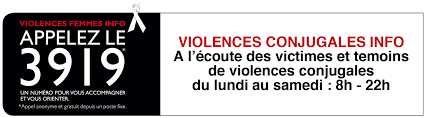
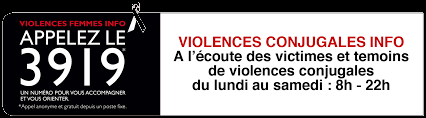
modification css header, change image page urgence and main css urgence

Changed region(s): [[0.0, 0.0, 1.0, 1.0]]

diff --git a/médecin.html b/médecin.html
@@ -1,7 +1,7 @@
 <!DOCTYPE html>
 <html lang="fr">
 
-<h3>
+<head>
     <meta charset="UTF-8">
     <meta name="viewport" content="width=device-width, initial-scale=1.0">
     <meta http-equiv="X-UA-Compatible" content="ie=edge">
@@ -13,7 +13,7 @@
 <body>
 <!--_______________________________________________HEADER________________________________________-->
 <header>
-    <div class="container">
+    <div>
         <div class="logo"><!--logo-->
             <figure>
             <img src="Images/logo1.png" alt="logo" width="200" height="200">
@@ -43,7 +43,7 @@
         <div>
             <figure>
                 <h2 class="marg">Médecin Généraliste</h2>
-                <img src="Images/medecin4.jpeg" class="medecin" alt="photo medecin" width="250" height="250">
+                    <img src="Images/medecin4.jpeg" class="medecin" alt="photo medecin" width="250" height="250">
                 <h3 class="marg">Docteur Mouse</h3>
             </figure>
             <section class="p-medecin">
@@ -52,23 +52,20 @@
                     Ancien externe au CHRU de Lille (59)<br> 
                     Ancien interne au CHRU d’Amiens (80)<br> 
                     Diplômé de Médecine Manuelle Ostéopathie de la faculté de Bobigny (Paris Nord) <br> 
-                    Numéro d’inscription au tableau de l’Ordre: 1702517896 <br> <br> 
+                    Numéro d’inscription au tableau de l’Ordre: 1702517896
             </p>
             </section>
             <section class="p-medecin"> 
                 <p>
                     Le médecin généraliste est chargé de dispenser des soins globaux et continus <br>
                     à tous ceux qui le souhaitent indépendamment et de leur âge, de leur sexe et de leur maladie.<br>
-                    <br>
-                    <br>
+                    <br>                    <br>
                     Il soigne les personnes dans leur contexte familial, communautaire, culturel et toujours dans le respect de leur autonomie.<br>
                     Il accepte d’avoir également une responsabilité professionnelle de santé publique envers leur communauté.<br>
-                    <br>
-                    <br>
+                    <br>                    <br>
                     Dans la négociation des modalités de prise en charge avec leurs patients, il intègre les dimensions physiques, psychologiques,<br>
                     sociales, culturelles et existentielles, mettant à profit la connaissance et la confiance engendrées par des contacts répétés.<br>
-                    <br>
-                    <br>
+                    <br>                    <br>
                     Son activité professionnelle comprend la promotion de la santé, la prévention des maladies, <br> 
                     la prestation de soins à visée curative et palliative et il assure la coordination avec ses confrères spécialistes.
                 </p> 

diff --git a/style.css b/style.css
@@ -8,6 +8,7 @@
 body
 {
     font-family: 'Merriweather', Arial, Impact, Serif;
+    background-color: black;
 }
 
 li{
@@ -18,8 +19,8 @@ table
  {
      background-color: rgba(228, 228, 228, 0.4);
      text-align: center;
-     width: 900px;
-     height: 400px;
+     width: auto;
+     height: auto;
      border: 3px solid black;
      text-shadow: 1px 1px blac;
      font-weight: bold;
@@ -30,6 +31,7 @@ th,td
     border: 3px solid black;
     font-size: 1.5rem;
     font-weight: bold;
+    ;
 }
 
 /*============================HEADER============================*/
@@ -37,21 +39,21 @@ th,td
 header
 {
     background: url('Images/banner4.jpg') no-repeat;
-    background-size: 100% 350px;
+    background-size: cover;
     border-bottom: 7px solid black; 
-    height: 300px;
+    height:350px;
 }
 
 header h1
 {
-    padding-top:  7rem;
+    padding-top:  9rem;
     text-shadow: 1px 1px black;
 }
 
 header nav
 {
     float: right;
-    margin-top: 1.1rem; 
+    margin-top: 1.5rem; 
     text-align: center; 
     background-color: black;
     border: 4px outset rgb(192, 192, 192);
@@ -62,8 +64,8 @@ header nav ul li
 {
     background-color: black;
     font-weight: bold;
-    padding: 0 5rem 0 5rem;
-    display: inline-block;    
+    padding: 1rem 5rem .9rem 5rem;
+    display: inline-block;  
 }
 
 header a
@@ -75,7 +77,7 @@ header a
 .logo
 {
     float: left;
-    padding: 3rem 0 0 4rem;
+    padding: 4rem 0 0 4rem;
 }
 
 .rouge
@@ -92,8 +94,9 @@ header a
 
 main
 {
-    background: url('Images/fond1.jpg') no-repeat;
+    background: url('Images/fond2.1.jpg') no-repeat;
     width: 100%; height: 100%;
+    background-size: cover;
     display: flex;
     flex-direction: column;
 }
@@ -129,22 +132,22 @@ main
 {
     display: flex;
     justify-content: center;
-    margin: 50px auto 20px auto;
+    margin: 50px 0 20px 0;
     font-size: 2.5rem;
 }
 
 .medecin
 {
     display: flex;
-    justify-content: center;
-    margin: 0 auto;
+    justify-items: center;
+    margin:0 auto;
 }
 
 .botton-contact
 {
     display: flex;
     justify-content: center;
-    margin: 50px auto 50px auto;
+    margin: 50px auto;
     font-size: 2.0rem;
     background-color: black;
     color: rgb(245, 222, 179);
@@ -275,11 +278,11 @@ form input
     color: rgb(255,10,10); 
     font-size: 4rem;
     text-align: center;
-    border: 2px solid white;
-    width: 800px;
+    border: 2px solid rgb(192, 192, 192);
+    width: 100%x;
     background-color: black;
     text-shadow: 1px 1px rgb(100, 0, 0);
-    margin: 50px auto;
+    margin: auto;
 }
 
 .urgence
@@ -291,7 +294,7 @@ form input
 
 .image-urgence
 {
-    margin: 30px 0;
+    margin: 30px 20px;
 }
 
 /*=================================MAIN-APROPOS============================*/
@@ -355,7 +358,7 @@ footer nav ul li
 {
     background-color: black;
     font-weight: bold;
-    padding: 0 4rem 0 4rem;
+    padding: 0 5rem 0 5rem;
     display: inline-block;
 }
 

diff --git a/médecin2.html b/médecin2.html
@@ -13,7 +13,7 @@
 <body>
 <!--_______________________________________________HEADER________________________________________-->
 <header>
-    <div class="container">
+    <div>
         <div class="logo"><!--logo-->
             <figure>
             <img src="Images/logo1.png" alt="logo" width="200" height="200">
@@ -43,7 +43,7 @@
         <div>
             <figure>
                 <h2 class="marg">Médecin Cardiologue</h2>
-                 <img src="Images/medecin1.jpeg" class="medecin" alt="photo cardioloque" width="250" height="250">
+                    <img src="Images/medecin1.jpeg" class="medecin" alt="photo cardioloque" width="250" height="250">
                 <h3 class="marg">Docteur Mamoura</h3>
             </figure>
             <section class="p-medecin">
@@ -58,15 +58,17 @@
                     Capacité de Médecine et Biologie du sport <br> 
                     D.I.U. de stimulation cardiaque <br> 
                     D.U. de cardiologie congénitale et pédiatrique <br> 
-                    D.U. d’études Médicales Relatives à la réparation du dommage corporel <br> <br> 
+                    D.U. d’études Médicales Relatives à la réparation du dommage corporel <br>
             </p>
             </section>
             <section class="p-medecin">
             <p>
                     Le cardiologue s’occupe du muscle cardiaque et de tous les vaisseaux artériels qui en sont issus. <br> 
                     Le cœur étant un organe vascularisé, le cardiologue traite par extension, l’ensemble des maladies dites cardiovasculaires. <br> 
-                    Il peut s’agir, de façon non exhaustive, de pathologies telles que la sténose des coronaires <br> (rétrécissement des artères), l’hypertension artérielle, la péricardite, l’infarctus du myocarde.<br>
-                    C’est généralement, en réalisant un ECG (électrocardiogramme) que l’on peut détecter une arythmie <br>(trouble du rythme cardiaque) et en expliquer son origine.<br>
+                    Il peut s’agir, de façon non exhaustive, de pathologies telles que la sténose des coronaires <br> 
+                    (rétrécissement des artères), l’hypertension artérielle, la péricardite, l’infarctus du myocarde.<br>
+                    C’est généralement, en réalisant un ECG (électrocardiogramme) que l’on peut détecter une arythmie <br>
+                    (trouble du rythme cardiaque) et en expliquer son origine.<br>
             </p>
             </section>
         </div>

diff --git a/urgences.html b/urgences.html
@@ -52,19 +52,23 @@
         
         <div>
             <figure>
-                <img src="Images/numeros-urgence.png" class="image-urgence" title="numero d'urgence" height="200">
+                <img src="Images/15-samu.png" class="image-urgence" title="numero d'urgence" height="200">
+                <img src="Images/17.police.png" class="image-urgence" title="numero d'urgence" height="200">
+                <img src="Images/18-pompier.png" class="image-urgence" title="numero d'urgence" height="200">
+                <img src="Images/115-sansabrit.png" class="image-urgence" title="numero d'urgence" height="200">
+                <img src="Images/119-enfant.png" class="image-urgence" title="numero d'urgence" height="200">
             </figure>
         </div>
 
         <div>
             <figure>
-                <img src="Images/3919.png" class="image-urgence" title="violence femme" width="700" height="200">
+                <img src="Images/3919-1.png" class="image-urgence" title="violence femme" width="500" height="200">
             </figure>
         </div>
 
         <div>
             <figure>
-                <img src="Images/info_tel.png" class="image-urgence" title="info pharmacie" width="700" height="200">
+                <img src="Images/info_tel.png" class="image-urgence" title="info pharmacie" width="500" height="200">
             </figure>
         </div>
         

diff --git a/spécialistes.html b/spécialistes.html
@@ -50,7 +50,7 @@
                 <h3 class="marg">Docteur Mouse</h3>
             </figure>
             <div>
-                <a href="médecin.html" class="botton-contact" title="Information Généraliste" target="_blank">Renseignements</a>
+                <a href="médecin.html" class="botton-contact" title="Information Généraliste">Renseignements</a>
             </div>
         </section>
         <section class="line"></section>
@@ -63,7 +63,7 @@
               <h3 class="marg">Docteur Mamoura</h3>
         </figure>
         <div>
-            <a href="médecin2.html" class="botton-contact" title="Information Cardiologue" target="_blank">Renseignements</a>
+            <a href="médecin2.html" class="botton-contact" title="Information Cardiologue">Renseignements</a>
         </div>
         </section>
     </div>

diff --git a/index.html b/index.html
@@ -13,7 +13,7 @@
 <body>
 <!--_______________________________________________HEADER________________________________________-->
 <header>
-    <div class="container">
+    <div>
         <div class="logo"><!--logo-->
             <figure>
             <img src="Images/logo1.png" alt="logo" width="200" height="200">
@@ -21,7 +21,7 @@
         </div>
 
     <div><!--titre-top-->
-        <h1 class="bleu"><span class="rouge">BRAVE HEART</span> MEDICAL CENTER</h1>
+        <h1><span class="rouge">BRAVE HEART</span> <span class="bleu">MEDICAL CENTER</span></h1>
     </div>
 
         <div><!--menu top-->

diff --git a/apropos.html b/apropos.html
@@ -13,7 +13,7 @@
 <body>
 <!--_______________________________________________HEADER________________________________________-->
 <header>
-    <div class="container">
+    <div>
         <div class="logo"><!--logo-->
             <figure>
             <img src="Images/logo1.png" alt="logo" width="200" height="200">

diff --git a/contact.html b/contact.html
@@ -12,7 +12,7 @@
 <body>
 <!--_______________________________________________HEADER________________________________________-->
 <header>
-    <div class="container">
+    <div>
         <div class="logo"><!--logo-->
             <figure>
             <img src="Images/logo1.png" alt="logo" width="200" height="200">

diff --git a/horaires.html b/horaires.html
@@ -13,7 +13,7 @@
 <body>
 <!--_______________________________________________HEADER________________________________________-->
 <header>
-    <div class="container">
+    <div>
         <div class="logo"><!--logo-->
             <figure>
             <img src="Images/logo1.png" alt="logo" width="200" height="200">
